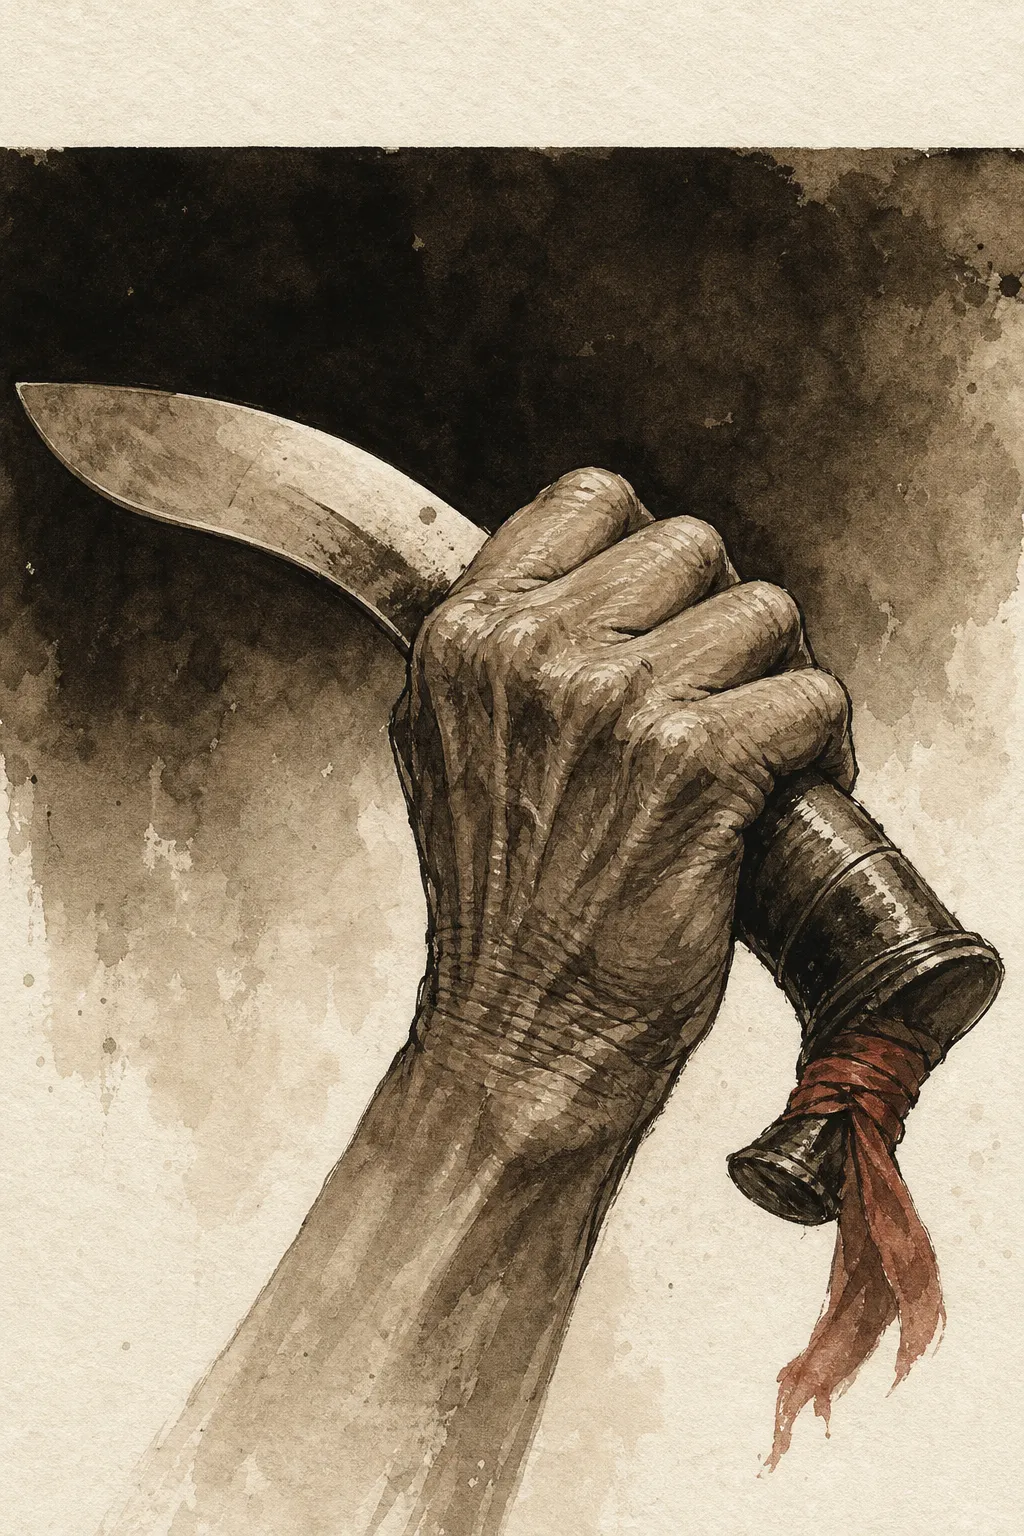
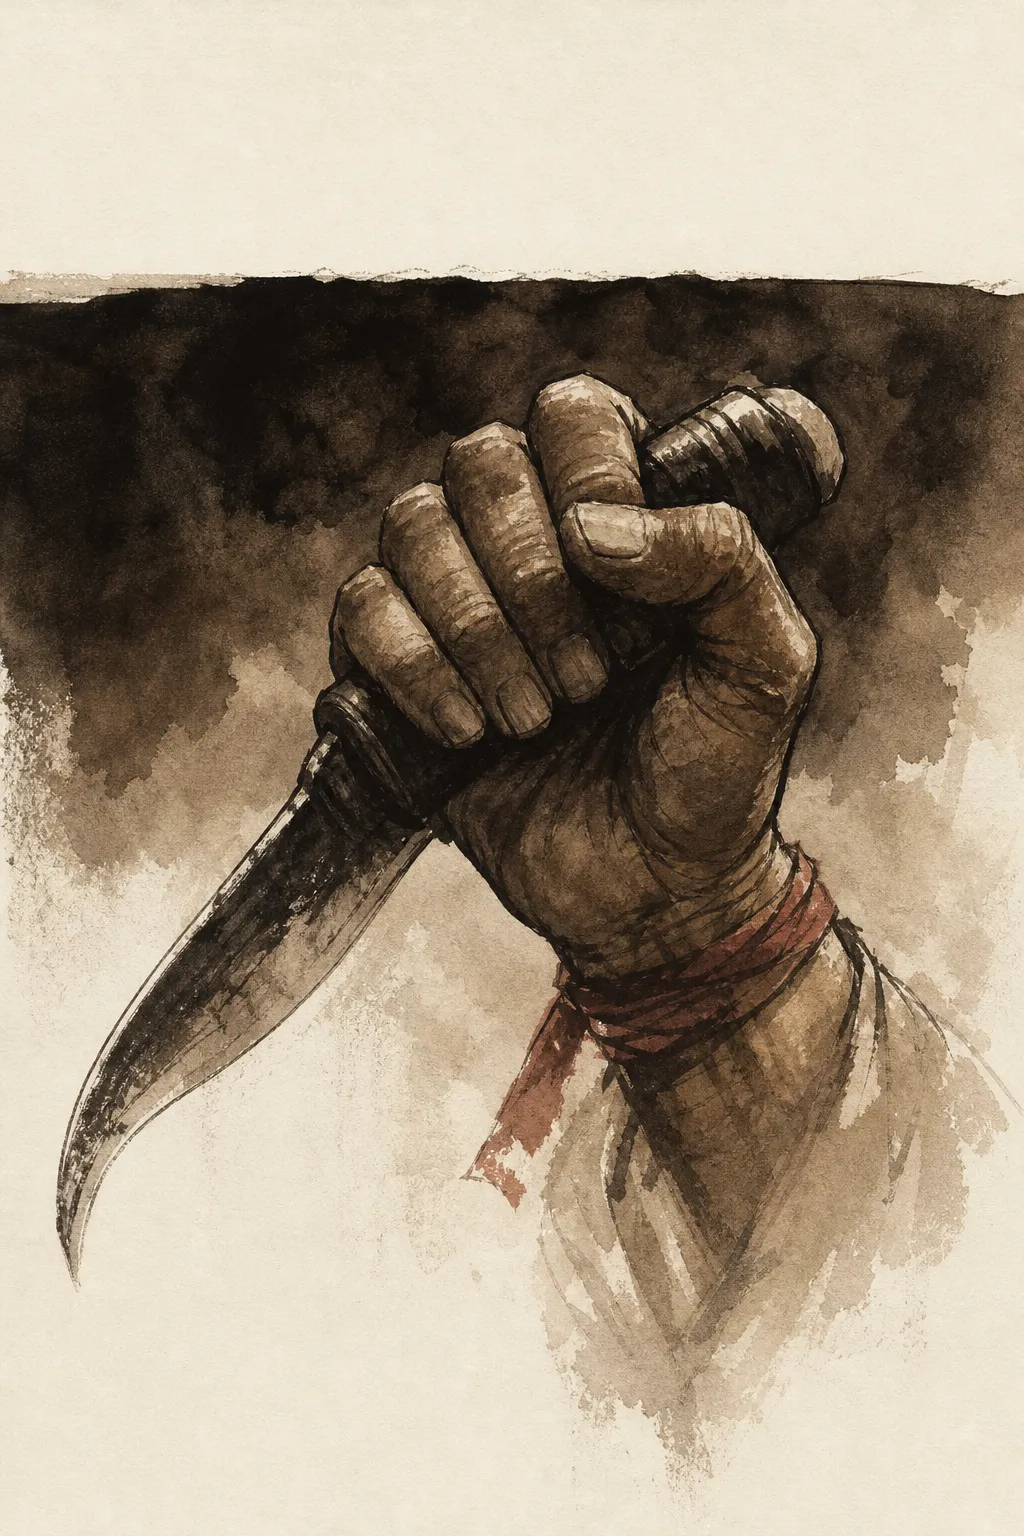
Two rounds played out in the handbook, with every number pinned to the content it came from
A worked example between the conditions chapter and the checks: one starting
Warrior against a Goblin and a Goblin Archer, played turn by turn.

**Nothing in it is invented.** The Warrior is the starter character the game
actually ships (12 Health, Longsword, Wooden Shield, Leather Armor, Healing
Potion, Strong); the goblins are their real stat blocks; the five intents it
plays -- Close In, Loose, Find the Joint -- were checked against the deck
`deckFor` actually builds for a goblin, so it never shows a card that creature
cannot draw; and the sixteen-card deck's hand, discard and draw pile are
tracked and add up at the end.

**It teaches the things that are hard to see from the rules alone.**

- A reaction fires only when it **changes the outcome**. Nothing answers the
  1s, 2s and 3s. Then Find the Joint ignores 2 armour, the Warrior's 1 counts
  for nothing, 5 gets through -- a Wound -- and Shield Up answers as a Block
  for the shield's Defend plus one, which takes it to 2 and prevents the Wound
  outright. That is the rule and its reason in one blow.
- **You never get both halves of one card.** The Warrior wants Heavy Swing and
  Shield Up in the same turn and cannot have them, because both print their
  useful half as a primary.
- A Critical draws from the critical deck rather than just doubling: Through
  and Through, 4 becomes 8, and the fate deck shuffles.
- Second Wind is printed Spent on its **primary**, and the example plays its
[…]

diff --git a/rules/players-handbook.html b/rules/players-handbook.html
@@ -23,6 +23,7 @@
 <li><a href="#6-the-fate-deck">6. The fate deck</a></li>
 <li><a href="#7-armour-block-and-getting-past-them">7. Armour, Block and getting past them</a></li>
 <li><a href="#8-conditions">8. Conditions</a></li>
+<li><a href="#two-rounds-played-out">Two rounds, played out</a></li>
 <li><a href="#9-checks-outside-a-fight">9. Checks, outside a fight</a></li>
 <li><a href="#10-running-out">10. Running out</a></li>
 <li><a href="#11-rests">11. Rests</a></li>
@@ -282,6 +283,32 @@
 <tr><th scope="row"><strong>Unconscious</strong></th><td>At 0 Health. No turns, no reactions, Prone.</td></tr>
 </tbody></table></div>
 <p><strong>Shake Off</strong> spends a condition's duration rather than waiting for it. <strong>Openings</strong> (Wet, Off-Balance, Marked and Judged) do nothing by themselves; they exist for other cards to key off, and they cannot be shaken off.</p>
+<hr>
+<h2 id="two-rounds-played-out">Two rounds, played out</h2>
+<p>Everything above, running. One character, two enemies, and every number taken from the cards and stat blocks in this book rather than invented for the example.</p>
+<p><strong>The Warrior</strong> is a starting character: <strong>12 Health</strong>, a <strong>Longsword</strong> (Strike 3, Defend 1), a <strong>Wooden Shield</strong> (Defend 2), <strong>Leather Armor</strong> (Armor 1) and a <strong>Healing Potion</strong> on the belt. One feature, <strong>Strong</strong>: +1 damage on Strike with Heavy items, and the Longsword is Heavy. The action deck is 16 cards and the hand is 5.</p>
+<p><strong>A Goblin</strong> stands next to him: 5 Health, no armour, speed 3, a spear that Strikes for 3. <strong>A Goblin Archer</strong> is six squares back down the tunnel: 5 Health, no armour, a shortbow that Strikes for 3 out to range 6.</p>
+<p><strong>Initiative.</strong> Everyone draws one fate card, once for the whole fight. The Archer draws <strong>+2</strong>, the Goblin <strong>+1</strong>, the Warrior <strong>−1</strong>. The order is <strong>Archer, Goblin, Warrior</strong>, and it holds for the rest of the fight. Acting last is a bad draw and it is going to cost him.</p>
+<p><strong>Two intent cards, face down, one per kind of enemy.</strong> The Goblin and the Archer are different kinds, so that is two cards. If there were four goblins they would still share one.</p>
+<h3 id="round-one">Round one</h3>
+<p>The intents are <strong>Close In</strong> for the goblin kind and <strong>Loose</strong> for the archer kind.</p>
+<p><strong>1. The Archer</strong> plays <em>Loose</em>: Strike at the weapon's range. The Warrior is exactly six squares away and the bow reaches six. Shortbow <strong>3</strong>, fate <strong>+0</strong>, total <strong>3</strong>. The Warrior's armour takes 1, so <strong>2 damage</strong>. Warrior at <strong>10</strong>.</p>
+<p>Nothing in the Warrior's hand is asked about it. A reaction fires only on a <strong>serious</strong> hit, and 2 is neither a Wound nor enough to drop him.</p>
+<p><strong>2. The Goblin</strong> plays <em>Close In</em>: move your speed, then Strike. It is already adjacent, so it moves nothing. Spear <strong>3</strong>, fate <strong>+1</strong>, total <strong>4</strong>. Armour takes 1, so <strong>3 damage</strong>. Warrior at <strong>7</strong>. Still not serious.</p>
+<p><strong>3. The Warrior</strong> refills to five and holds <em>Strike, Strike, Heavy Swing, Shield Up, Advance</em>.</p>
+<ul><li><strong>Primary: Heavy Swing</strong> at the Goblin. The order from section 5: base <strong>3</strong> for the Longsword, <strong>+1</strong> for the card, <strong>+1</strong> for Strong, which is <strong>5</strong> before luck. Fate <strong>−1</strong> gives <strong>4</strong>. The goblin has no armour and no Block, so <strong>4 damage</strong>: it drops to <strong>1 Health</strong>. Heavy Swing also ignores 2 armour, which buys nothing here, because a goblin has none to ignore.</li><li><strong>Secondary: Strike</strong>, for its Move 1, one step, keeping the goblin in reach.</li></ul>
+<p>He wanted the shield up as well, and he cannot have it. <em>Shield Up</em> carries Defend on its <strong>primary</strong>, and the primary is spent on Heavy Swing. <strong>You never get both halves of one card</strong>, and two cards whose useful halves are both primaries compete for the same slot. That is most of what a turn is.</p>
+<p>Heavy Swing and the one Strike go to the discard. <strong>Three cards stay in front of him</strong>, ready to react: <em>Strike, Shield Up, Advance</em>. Eleven are left in the draw pile.</p>
+<h3 id="round-two">Round two</h3>
+<p>Two fresh intents: <strong>Find the Joint</strong> for the goblin and <strong>Loose</strong> again for the archer.</p>
+<p><strong>1. The Archer</strong> looses again: <strong>3</strong>, fate <strong>−1</strong>, total <strong>2</strong>. Armour takes 1, so <strong>1 damage</strong>. Warrior at <strong>6</strong>.</p>
+<p><strong>2. The Goblin</strong> plays <em>Find the Joint</em>: Strike where the harness is buckled rather than where it is thickest, <strong>ignoring 2 armour</strong>. The Warrior's armour is 1, so all of it counts for nothing. Spear <strong>3</strong>, fate <strong>+2</strong>, total <strong>5</strong>, and no armour stands in the way: <strong>5 incoming</strong>.</p>
+<p><strong>That is a Wound</strong>, and a Wound is serious, so the hand is asked. The best answer in it is <strong>Shield Up</strong> as a <strong>Block</strong>: the Wooden Shield's Defend is 2, and one more for being a shield, so it takes <strong>3</strong> off. <strong>2 damage</strong> gets through, and because 2 is under the Wound line, <strong>the Wound never happens</strong>. Shield Up goes to the discard. Warrior at <strong>4</strong>.</p>
+<p>That is the whole of the reaction rule in one blow. Nothing answered the 1s, 2s and 3s, because a reaction fires only when it <strong>changes the outcome</strong>: when it stops a Wound, or stops you being dropped. A hand spent on scratches is a hand you do not have for this.</p>
+<p><strong>3. The Warrior</strong> refills to five: <em>Strike, Advance, Lunge, Quick Hands, Second Wind</em>.</p>
+<ul><li><strong>Primary: Strike</strong> at the Goblin, on 1 Health. Base <strong>3</strong> plus <strong>1</strong> for Strong is <strong>4</strong>, and the fate card is a <strong>Critical</strong>. So he draws from the critical deck and turns up <strong>Through and Through</strong>: double the damage, <strong>8</strong>. The goblin is down. The fate deck shuffles, because a Critical always does.</li><li><strong>Secondary: Second Wind</strong>, for its <strong>Use</strong>, the Healing Potion. Use <strong>4</strong>, fate <strong>+0</strong>, <strong>4 Health back</strong>, and the potion is spent doing it. Warrior at <strong>8</strong>.</li></ul>
+<p><em>Second Wind</em> is printed <strong>Spent</strong> on its primary and he played the secondary, so it is only discarded. A cost on one half is not a cost on the other.</p>
+<p><strong>Where the fight stands.</strong> The Warrior is on <strong>8 of 12</strong> with a goblin down, the Archer untouched six squares away and still shooting, three cards in hand, five in the discard and eight to draw. He is winning and he has spent a quarter of his deck to do it, which is the arithmetic the whole game is about: you do not run out of spells, you run out of deck.</p>
 <hr>
 <h2 id="9-checks-outside-a-fight">9. Checks, outside a fight</h2>
 <p>Draw a hand of <strong>4</strong> skill cards. Each shows one <strong>approach</strong> and a value of 1–3.</p>

diff --git a/rules/players-handbook.md b/rules/players-handbook.md
@@ -607,6 +607,97 @@ they cannot be shaken off.
 
 ---
 
+## Two rounds, played out
+
+Everything above, running. One character, two enemies, and every number taken from the cards and
+stat blocks in this book rather than invented for the example.
+
+**The Warrior** is a starting character: **12 Health**, a **Longsword** (Strike 3, Defend 1), a
+**Wooden Shield** (Defend 2), **Leather Armor** (Armor 1) and a **Healing Potion** on the belt.
+One feature, **Strong**: +1 damage on Strike with Heavy items, and the Longsword is Heavy. The
+action deck is 16 cards and the hand is 5.
+
+**A Goblin** stands next to him: 5 Health, no armour, speed 3, a spear that Strikes for 3. **A
+Goblin Archer** is six squares back down the tunnel: 5 Health, no armour, a shortbow that Strikes
+for 3 out to range 6.
+
+**Initiative.** Everyone draws one fate card, once for the whole fight. The Archer draws **+2**,
+the Goblin **+1**, the Warrior **−1**. The order is **Archer, Goblin, Warrior**, and it holds for
+the rest of the fight. Acting last is a bad draw and it is going to cost him.
+
+**Two intent cards, face down, one per kind of enemy.** The Goblin and the Archer are different
+kinds, so that is two cards. If there were four goblins they would still share one.
+
+### Round one
+
+The intents are **Close In** for the goblin kind and **Loose** for the archer kind.
+
+**1. The Archer** plays *Loose*: Strike at the weapon's range. The Warrior is exactly six squares
+away and the bow reaches six. Shortbow **3**, fate **+0**, total **3**. The Warrior's armour takes
+1, so **2 damage**. Warrior at **10**.
+
+Nothing in the Warrior's hand is asked about it. A reaction fires only on a **serious** hit, and 2
+is neither a Wound nor enough to drop him.
+
+**2. The Goblin** plays *Close In*: move your speed, then Strike. It is already adjacent, so it
+moves nothing. Spear **3**, fate **+1**, total **4**. Armour takes 1, so **3 damage**. Warrior at
+**7**. Still not serious.
+
+**3. The Warrior** refills to five and holds *Strike, Strike, Heavy Swing, Shield Up, Advance*.
+
+- **Primary: Heavy Swing** at the Goblin. The order from section 5: base **3** for the Longsword,
+  **+1** for the card, **+1** for Strong, which is **5** before luck. Fate **−1** gives **4**.
+  The goblin has no armour and no Block, so **4 damage**: it drops to **1 Health**. Heavy Swing
+  also ignores 2 armour, which buys nothing here, because a goblin has none to ignore.
+- **Secondary: Strike**, for its Move 1, one step, keeping the goblin in reach.
+
+He wanted the shield up as well, and he cannot have it. *Shield Up* carries Defend on its
+**primary**, and the primary is spent on Heavy Swing. **You never get both halves of one card**,
+and two cards whose useful halves are both primaries compete for the same slot. That is most of
+what a turn is.
+
+Heavy Swing and the one Strike go to the discard. **Three cards stay in front of him**, ready to
+react: *Strike, Shield Up, Advance*. Eleven are left in the draw pile.
+
+### Round two
+
+Two fresh intents: **Find the Joint** for the goblin and **Loose** again for the archer.
+
+**1. The Archer** looses again: **3**, fate **−1**, total **2**. Armour takes 1, so **1 damage**.
+Warrior at **6**.
+
+**2. The Goblin** plays *Find the Joint*: Strike where the harness is buckled rather than where
+it is thickest, **ignoring 2 armour**. The Warrior's armour is 1, so all of it counts for nothing.
+Spear **3**, fate **+2**, total **5**, and no armour stands in the way: **5 incoming**.
+
+**That is a Wound**, and a Wound is serious, so the hand is asked. The best answer in it is
+**Shield Up** as a **Block**: the Wooden Shield's Defend is 2, and one more for being a shield, so
+it takes **3** off. **2 damage** gets through, and because 2 is under the Wound line, **the Wound
+never happens**. Shield Up goes to the discard. Warrior at **4**.
+
+That is the whole of the reaction rule in one blow. Nothing answered the 1s, 2s and 3s, because a
+reaction fires only when it **changes the outcome**: when it stops a Wound, or stops you being
+dropped. A hand spent on scratches is a hand you do not have for this.
+
+**3. The Warrior** refills to five: *Strike, Advance, Lunge, Quick Hands, Second Wind*.
+
+- **Primary: Strike** at the Goblin, on 1 Health. Base **3** plus **1** for Strong is **4**, and
+  the fate card is a **Critical**. So he draws from the critical deck and turns up **Through and
+  Through**: double the damage, **8**. The goblin is down. The fate deck shuffles, because a
+  Critical always does.
+- **Secondary: Second Wind**, for its **Use**, the Healing Potion. Use **4**, fate **+0**,
+  **4 Health back**, and the potion is spent doing it. Warrior at **8**.
+
+*Second Wind* is printed **Spent** on its primary and he played the secondary, so it is only
+discarded. A cost on one half is not a cost on the other.
+
+**Where the fight stands.** The Warrior is on **8 of 12** with a goblin down, the Archer untouched
+six squares away and still shooting, three cards in hand, five in the discard and eight to draw.
+He is winning and he has spent a quarter of his deck to do it, which is the arithmetic the whole
+game is about: you do not run out of spells, you run out of deck.
+
+---
+
 ## 9. Checks, outside a fight
 
 Draw a hand of **4** skill cards. Each shows one **approach** and a value of 1–3.
